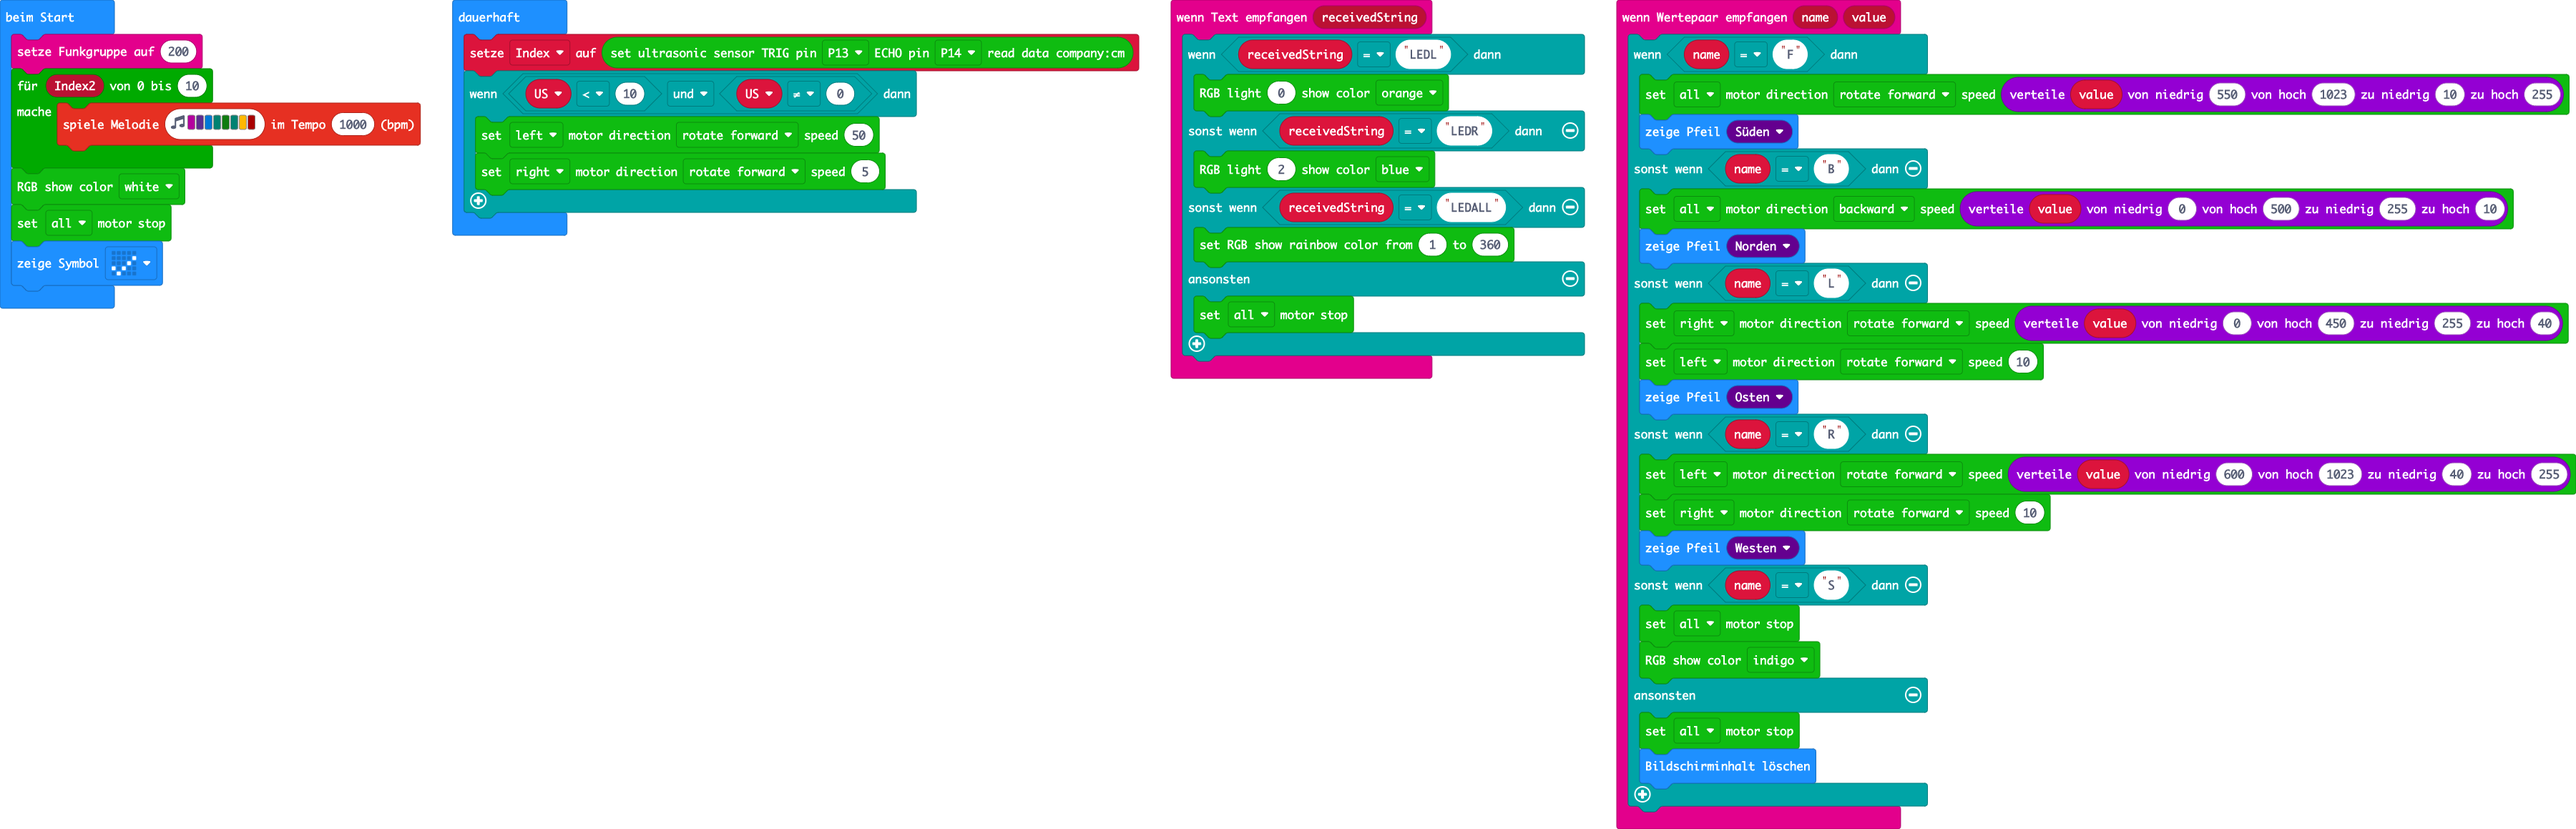
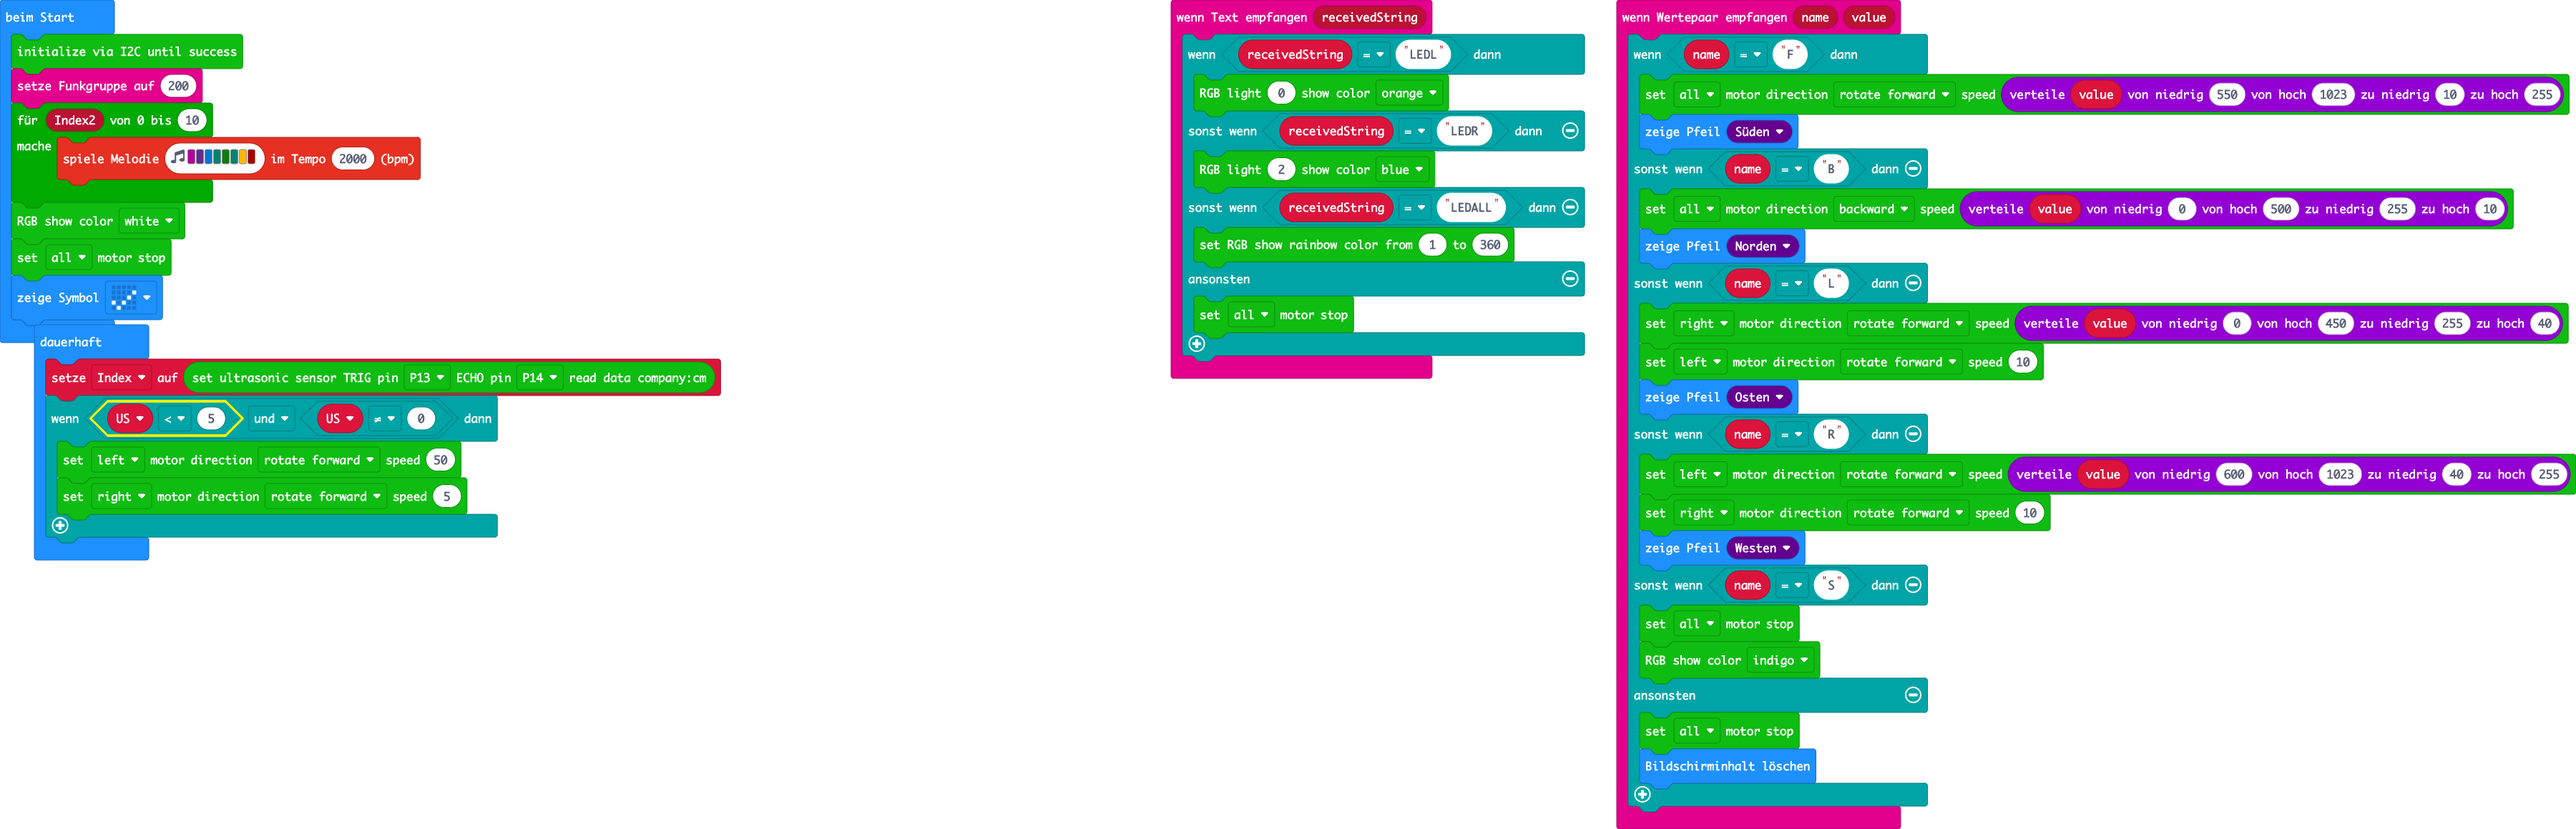
Aktualisiere main.blocks, main.ts

Changed region(s): [[0.0, 0.0, 0.4665, 0.6833]]

diff --git a/main.ts b/main.ts
@@ -33,9 +33,10 @@ radio.onReceivedValue(function (name, value) {
     }
 })
 let Index = 0
+DFRobotMaqueenPlusV2.I2CInit()
 radio.setGroup(200)
 for (let Index2 = 0; Index2 <= 10; Index2++) {
-    music.playMelody("C D E F G F A C5 ", 1000)
+    music.playMelody("C D E F G F A C5 ", 2000)
 }
 DFRobotMaqueenPlusV2.showColor(NeoPixelColors.White)
 DFRobotMaqueenPlusV2.controlMotorStop(MyEnumMotor.eAllMotor)
@@ -43,7 +44,7 @@ basic.showIcon(IconNames.Yes)
 basic.forever(function () {
     let US = 0
     Index = DFRobotMaqueenPlusV2.readUltrasonic(DigitalPin.P13, DigitalPin.P14)
-    if (US < 10 && US != 0) {
+    if (US < 5 && US != 0) {
         DFRobotMaqueenPlusV2.controlMotor(MyEnumMotor.eLeftMotor, MyEnumDir.eForward, 50)
         DFRobotMaqueenPlusV2.controlMotor(MyEnumMotor.eRightMotor, MyEnumDir.eForward, 5)
     }
